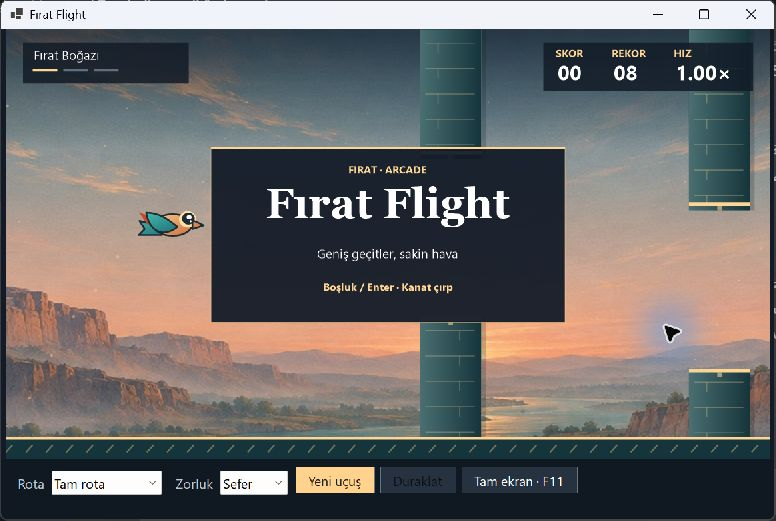
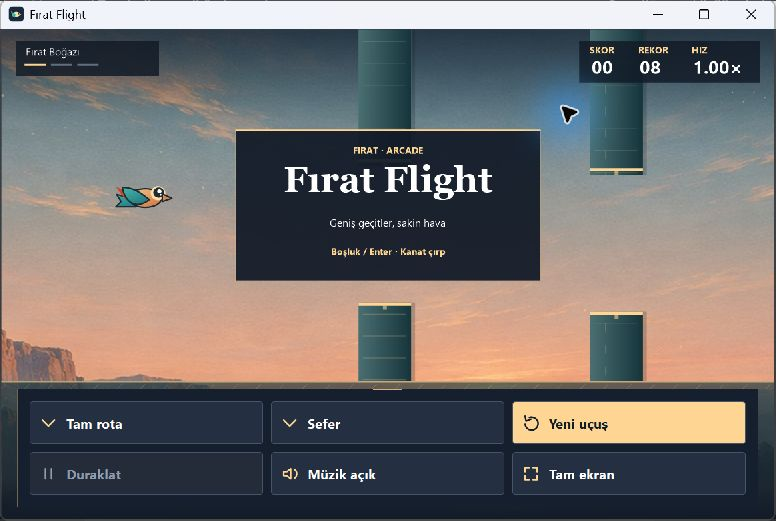
docs: tam ekran, müzik ve yeni uçuş ekranlarını belgeleyin

diff --git a/README.md b/README.md
@@ -18,14 +18,16 @@ dotnet run -c Release
 
 - **Boşluk, Enter, ↑** veya uçuş alanına tıklama kanat çırpar. Yer çekimi kuşu aşağı çeker.
 - **R / Yeni uçuş** skoru sıfırlar. **P / Duraklat** oyunu duraklatıp sürdürür. Odak kaybında oyun durur.
-- Pencereyi büyütüp küçültebilirsiniz. **F11 / Tam ekran** aynı oranı koruyarak oyun alanını büyütür ve geri döndürür.
+- Sahne pencereyi kenardan kenara kaplar. **F11 / Tam ekran** ile başlık çubuğu olmadan tüm ekranda oynayın; F11 ile pencereye dönün.
+- Bölge, zorluk, yeni uçuş, duraklatma, müzik ve ekran kontrolleri sahneye yerleştirilen tek paneldedir.
+- Uçuş sırasında **Flowerbed Fields [Loop]** tüm bölgelerde döngüde çalar. **M / Müzik** ile açıp kapatın. Uçuş durduğunda müzik duraklar.
 - **Tam rota** Fırat Boğazı'nda başlar. Beş kapıda Kızıl Geçit, on kapıda Ay Yaylası açılır. Ayrı bir bölge seçerek orada doğrudan antrenman yapabilirsiniz.
 - Her geçiş bir puandır. Hız puanla artar. Kızıl Geçit'te aralıklar daralır, Ay Yaylası'nda geçitler hareket eder ve rüzgâr dalgalanır. **Ustalık** daha hızlı ve daha dar bir rota sunar.
 - Zemin, tavan ve kapılar uçuşu bitirir. Oyun bitince Boşluk veya Enter yeni deneme başlatır. Her rota ve zorluk için ayrı rekor saklanır.
 
 ## Teknoloji ve tasarım
 
-C# / .NET 10, Windows Forms, GDI+ (System.Drawing) ve System.Text.Json. Harici NuGet paketi yoktur. `Game` sabit zaman adımlarıyla yer çekimi, hareket, çarpışma ve puanlamayı yönetir. `Bird` ve `Gate` ölçüleri ile hareketlerini taşır. `FlightCanvas` sahneyi çift tamponla çizer ve pencereye sığdırır. `HighScores` rekorları yerel olarak saklar.
+C# / .NET 10, Windows Forms, GDI+ (System.Drawing), System.Text.Json, NAudio.WinMM ve NAudio.Vorbis. `Game` sabit zaman adımlarıyla yer çekimi, hareket, çarpışma ve puanlamayı yönetir. `Bird` ve `Gate` ölçüleri ile hareketlerini taşır. `FlightCanvas` genişliğe göre sahneyi çizer. `FlightDeck` kontrolleri yeterli alan yoksa ikinci sıraya alır. `FlightMusic` yerel OGG dosyasını çalar. `HighScores` rekorları yerel olarak saklar.
 
 ## Ekran görüntüleri
 
@@ -35,6 +37,8 @@ C# / .NET 10, Windows Forms, GDI+ (System.Drawing) ve System.Text.Json. Harici N
 
 ## Doğrulama ve sınırlamalar
 
-Windows Release derlemesi ve tam ekran, Enter ile uçuş, çarpışma ve bölge seçimi denenmiştir. Sabit tohumlu bir model denemesinde üç bölge ve yeniden doğan kapılar geçildi. Oyun alanı yan boşluklarla oranı koruyabilir, ses efekti bulunmaz. Rekorlar `%LOCALAPPDATA%\YMH219-FlappyBird\scores.json` dosyasına yazılır. Önceki `best.txt` rekoru Tam rota / Sefer için devralınır.
+Windows Release derlemesi, tam ekran, Enter ile uçuş, çarpışma ve bölge seçimi denenmiştir. Sabit tohumlu bir model denemesinde üç bölge ve yeniden doğan kapılar geçildi. Müzik dosyasının döngü sınırı ve Windows üzerinde çalma, kısma ve duraklatma kontrol edildi. Rekorlar `%LOCALAPPDATA%\YMH219-FlappyBird\scores.json` dosyasına yazılır. Önceki `best.txt` rekoru Tam rota / Sefer için devralınır.
 
 [Arka plan görseli kaynak ve istemi](art/README.md)
+
+[Müzik kaynağı ve CC0 lisansı](audio/CREDITS.md)
